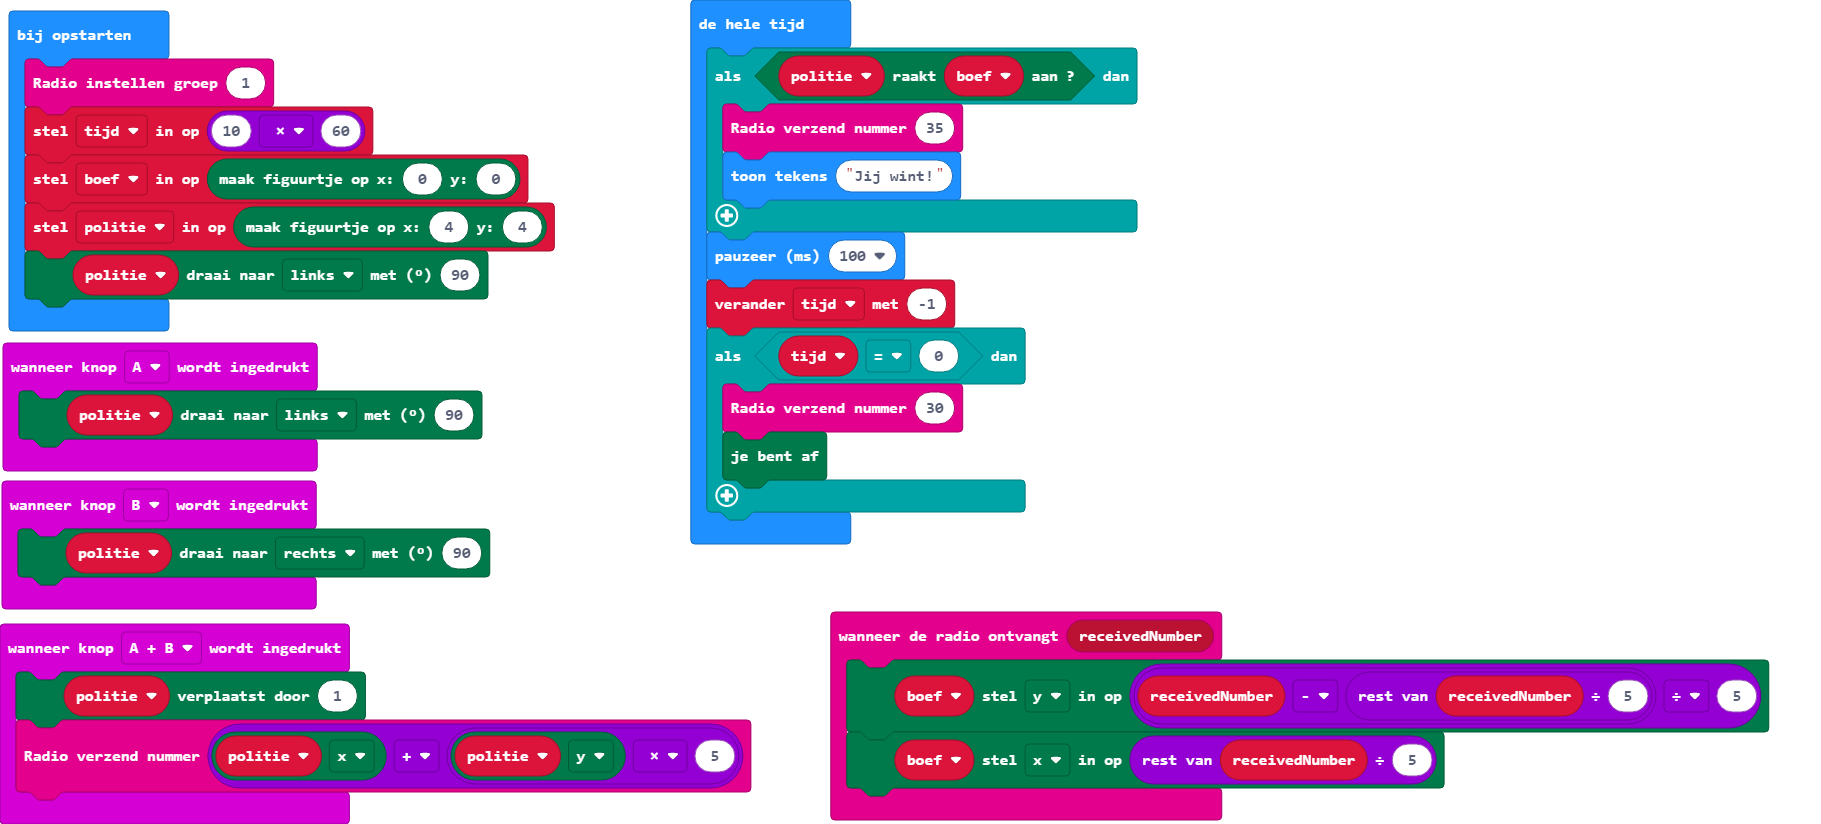
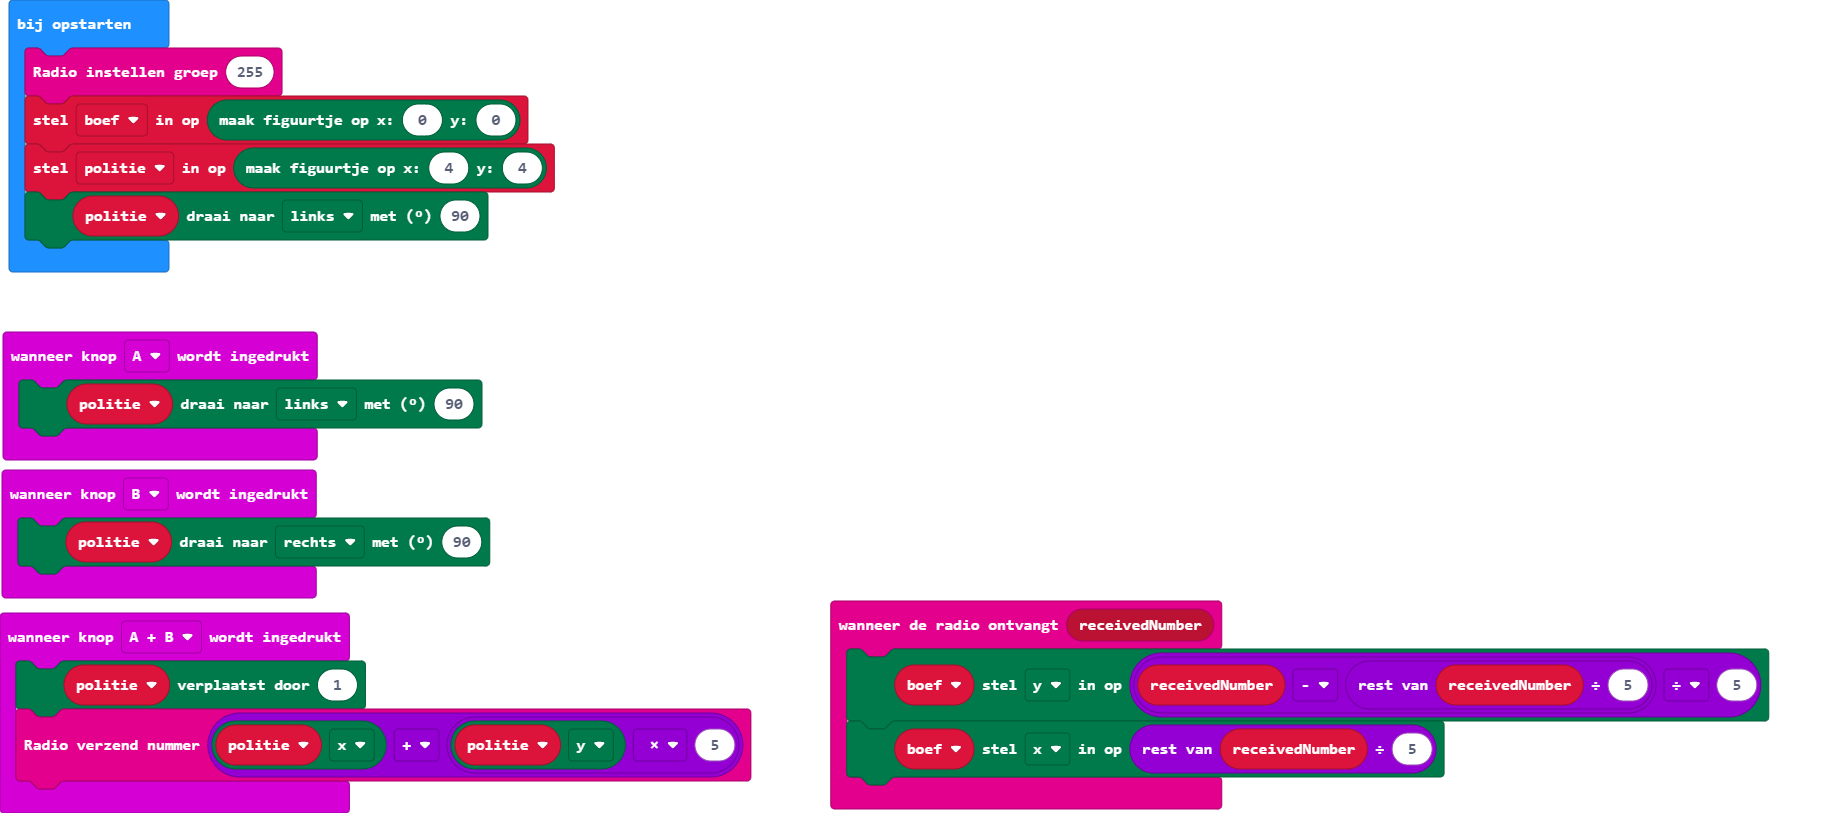
main.blocks, main.ts bijwerken

Changed region(s): [[0.0, 0.0, 0.3998, 0.984], [0.369, 0.0, 0.6458, 0.6765], [0.4613, 0.738, 0.9841, 0.9533]]

diff --git a/main.ts b/main.ts
@@ -14,20 +14,7 @@ input.onButtonPressed(Button.B, function () {
 })
 let politie: game.LedSprite = null
 let boef: game.LedSprite = null
-radio.setGroup(1)
-let tijd = 10 * 60
+radio.setGroup(255)
 boef = game.createSprite(0, 0)
 politie = game.createSprite(4, 4)
 politie.turn(Direction.Left, 90)
-basic.forever(function () {
-    if (politie.isTouching(boef)) {
-        radio.sendNumber(35)
-        basic.showString("Jij wint!")
-    }
-    basic.pause(100)
-    tijd += -1
-    if (tijd == 0) {
-        radio.sendNumber(30)
-        game.gameOver()
-    }
-})
